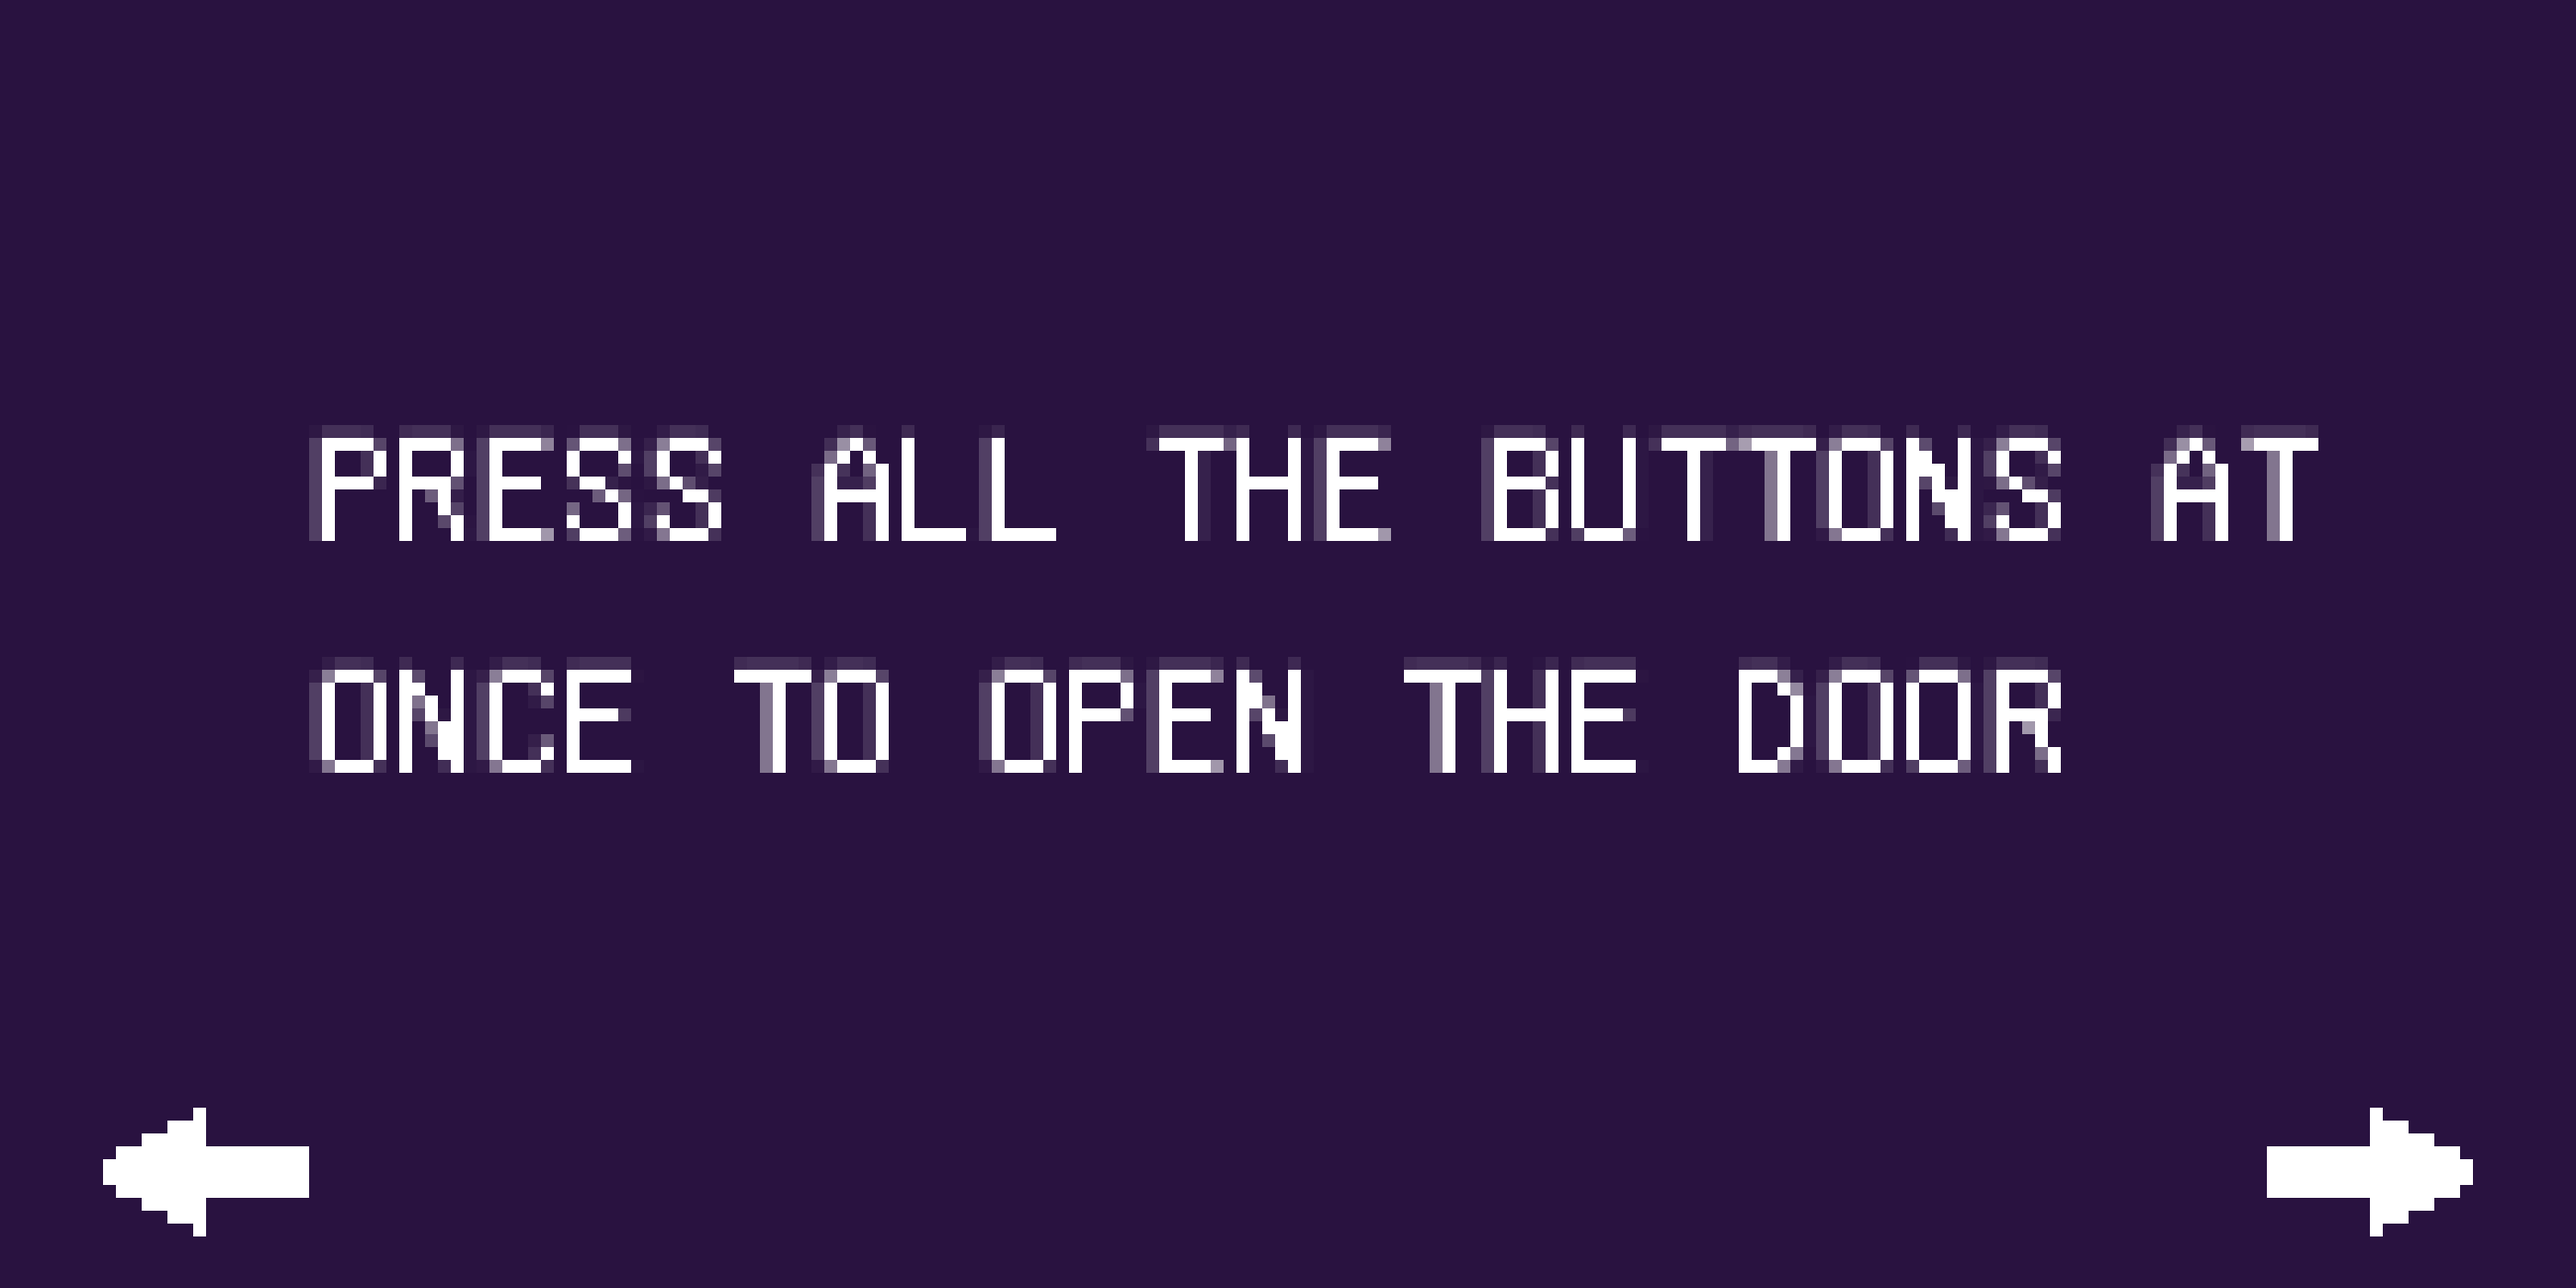
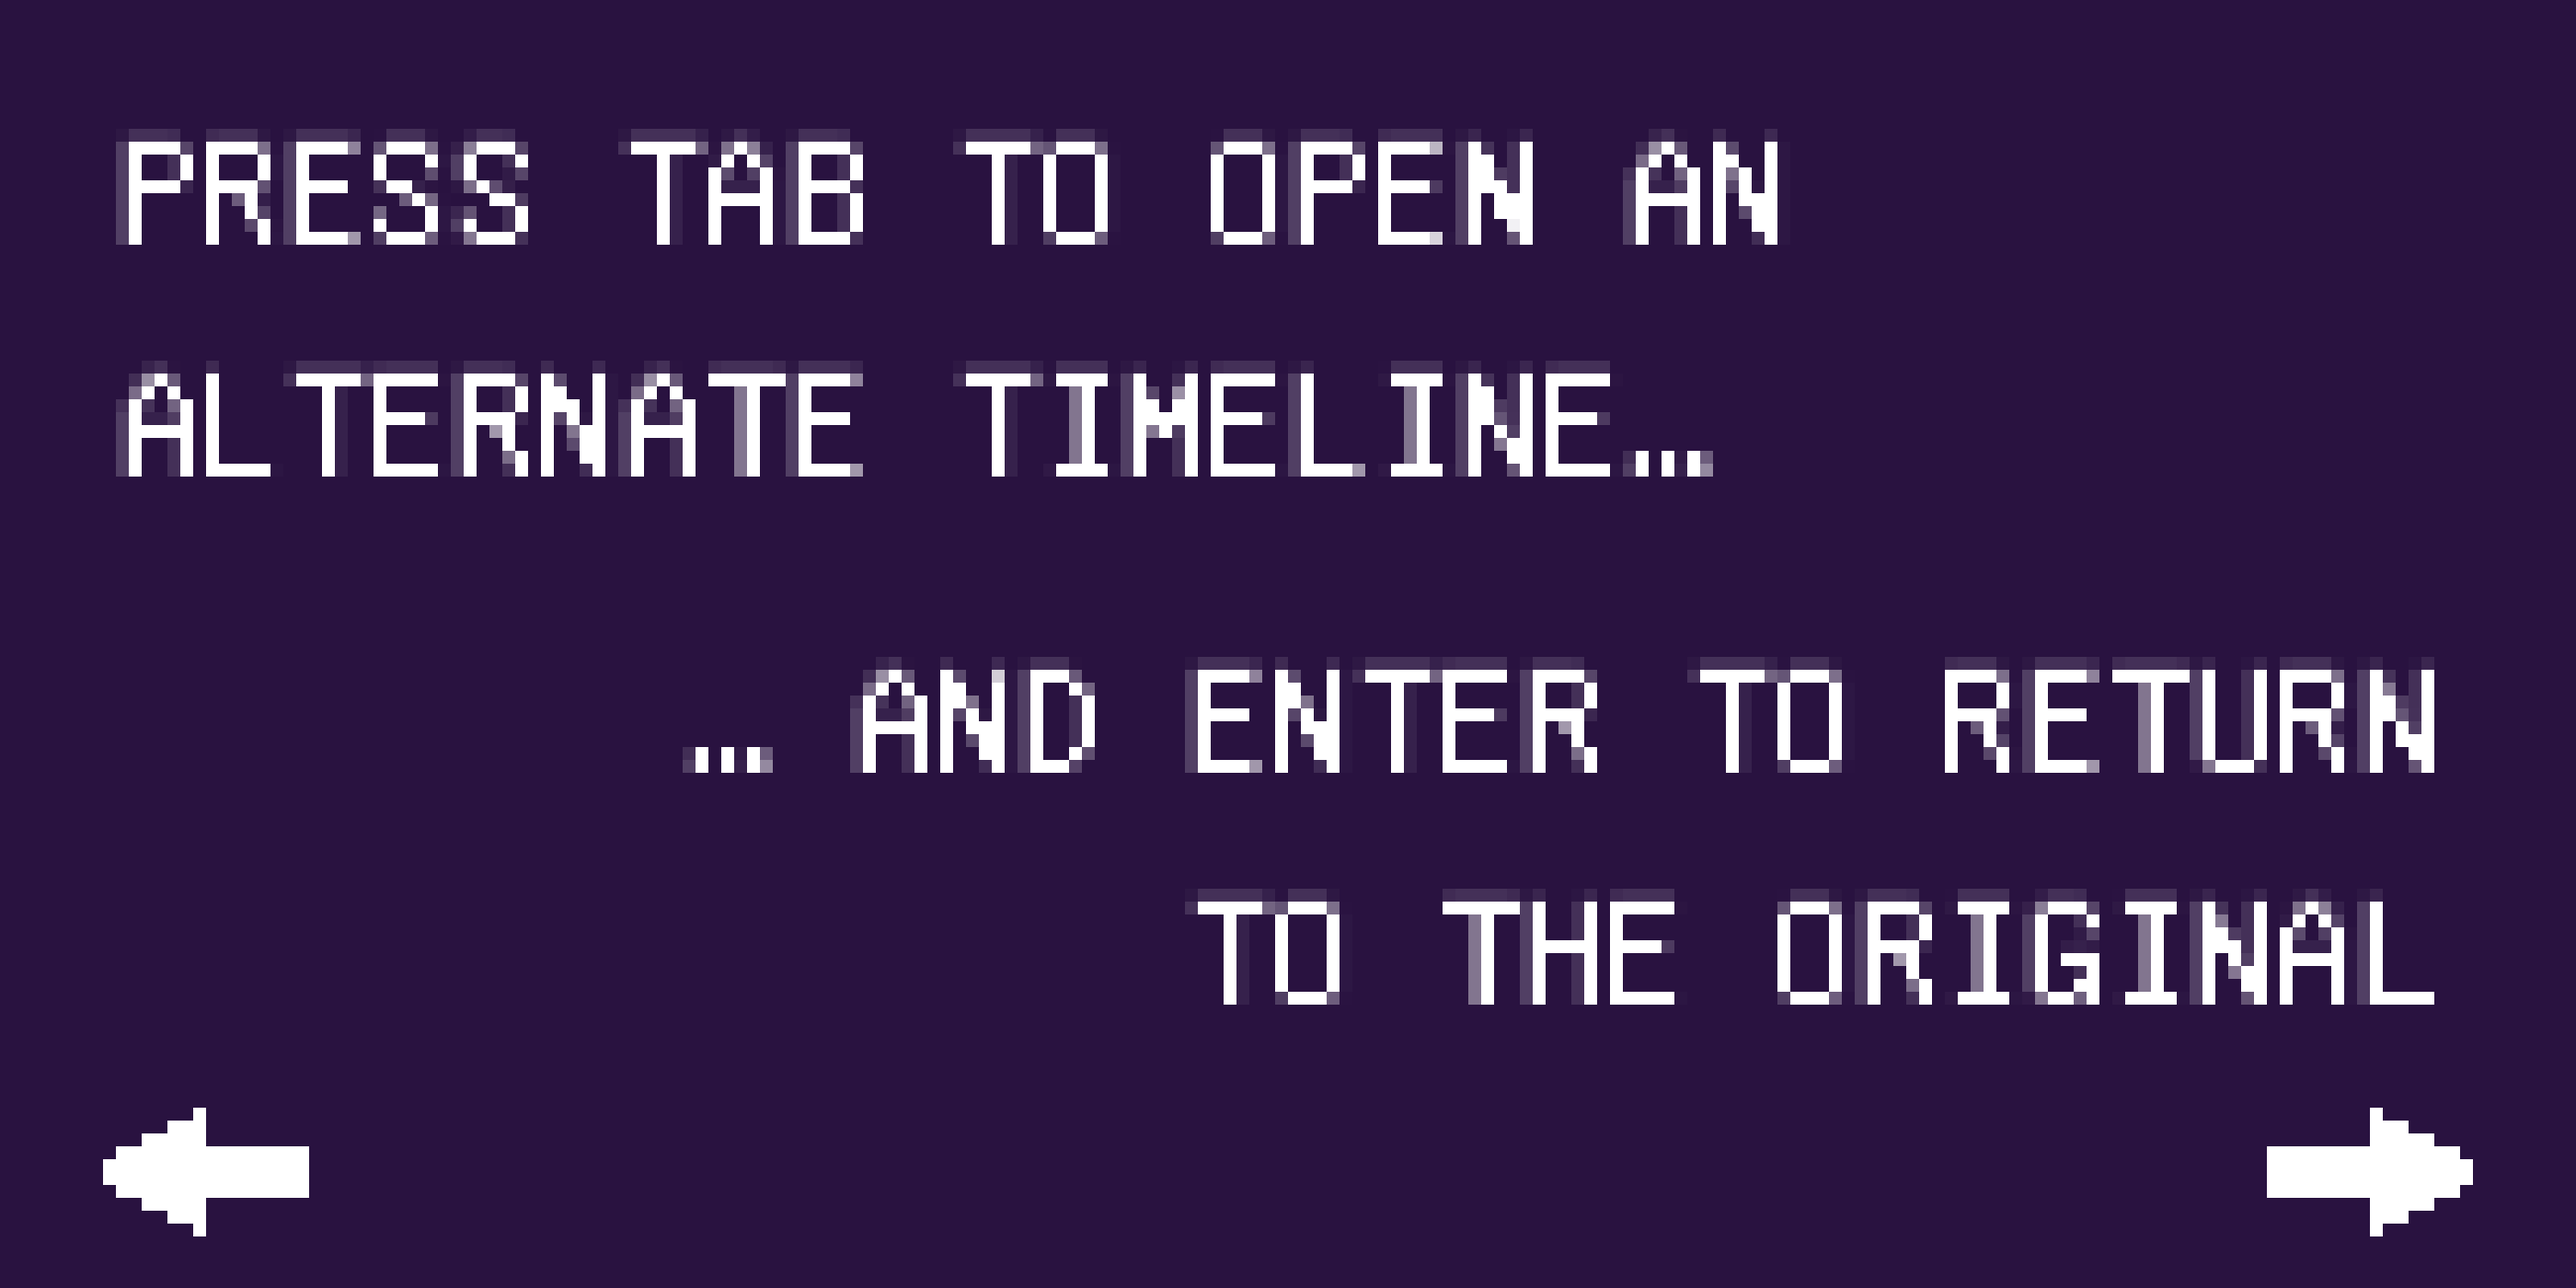
finished tutorial

diff --git a/levels.py b/levels.py
@@ -245,7 +245,6 @@ def setup_level7(screen_size, panel_size, BACKGROUND):
 
     door = Door(tile_size*2, panel_size[1], panel_size)
 
-
     current_objects = [spike1, spike2, spike3, bounce1, bounce2, bounce3]
 
     objects = [[],[]]
@@ -254,35 +253,5 @@ def setup_level7(screen_size, panel_size, BACKGROUND):
         objects[1].append(copy(item))
 
     level = Level(player1, objects[0], panel1, [button1, button2], [], door, BACKGROUND)
-    #return all objects that are part of a level
-    return level
-
-def test_level(screen_size, panel_size, BACKGROUND):
-    #set up player objects
-    player1 = Player(200, screen_size[1], panel_size)
-    player2 = Player(200, screen_size[1], panel_size)
-
-    #set up objects in first panel
-
-    box = Box(400, panel_size[1], panel_size)
-
-    #portal2 = Portal(600, panel_size[1], panel_size)
-    #portal3 = Portal(200, panel_size[1], panel_size)
-
-    #portal2.connect(portal3.getPosition())
-    #portal3.connect(portal2.getPosition())
-
-    button = Button(500, panel_size[1], panel_size)
-    platform = Platform(400, panel_size[1]-100, panel_size, 3)
-    spike = Spike(800, panel_size[1], panel_size)
-    door = Door(100, panel_size[1], panel_size)
-    current_objects = [platform, spike, door]
-
-    objects = [[],[]]
-    for item in current_objects:
-        objects[0].append(copy(item))
-        objects[1].append(copy(item))
-
-    level = Level(player1, objects[0], panel1, [button], [box], door, BACKGROUND)
     #return all objects that are part of a level
     return level

diff --git a/main.py b/main.py
@@ -28,7 +28,7 @@ def switch_panels(current_panel, level):
         level.make_copy()
         current_panel = 0
     
-    elif pressed[pygame.K_BACKSPACE]:
+    elif pressed[pygame.K_TAB]:
         level.split()
     
     elif pressed[pygame.K_r]:
@@ -36,10 +36,10 @@ def switch_panels(current_panel, level):
         level.make_copy()
         current_panel = 0
 
-    if pressed[pygame.K_1]:
+    if pressed[pygame.K_UP]:
         current_panel = 0
 
-    elif pressed[pygame.K_2] and level.getPanel(1) is not None:
+    elif pressed[pygame.K_DOWN] and level.getPanel(1) is not None:
         current_panel = 1
     
     
@@ -131,7 +131,7 @@ current_panel = 0
 
 tutorial_screens = []
 
-for i in range(1,4):
+for i in range(0,6):
     screen = pygame.image.load("assets/tutorial" + str(i)+ ".png")
     screen = pygame.transform.scale(screen, screen_size)
     tutorial_screens.append(screen)
@@ -142,7 +142,7 @@ for i in range(1,4):
 
 #level_panels = [[panel1, copy(levels[0])], [panel2, copy(levels[0])]]
 
-setups = [setup_level7, setup_level5, setup_level2, setup_level3]
+setups = [setup_level1, setup_level2, setup_level3, setup_level4, setup_level5, setup_level6, setup_level7]
 
 current_panel = 0
 level = setups[0](screen_size, panel_size, BACKGROUND)
